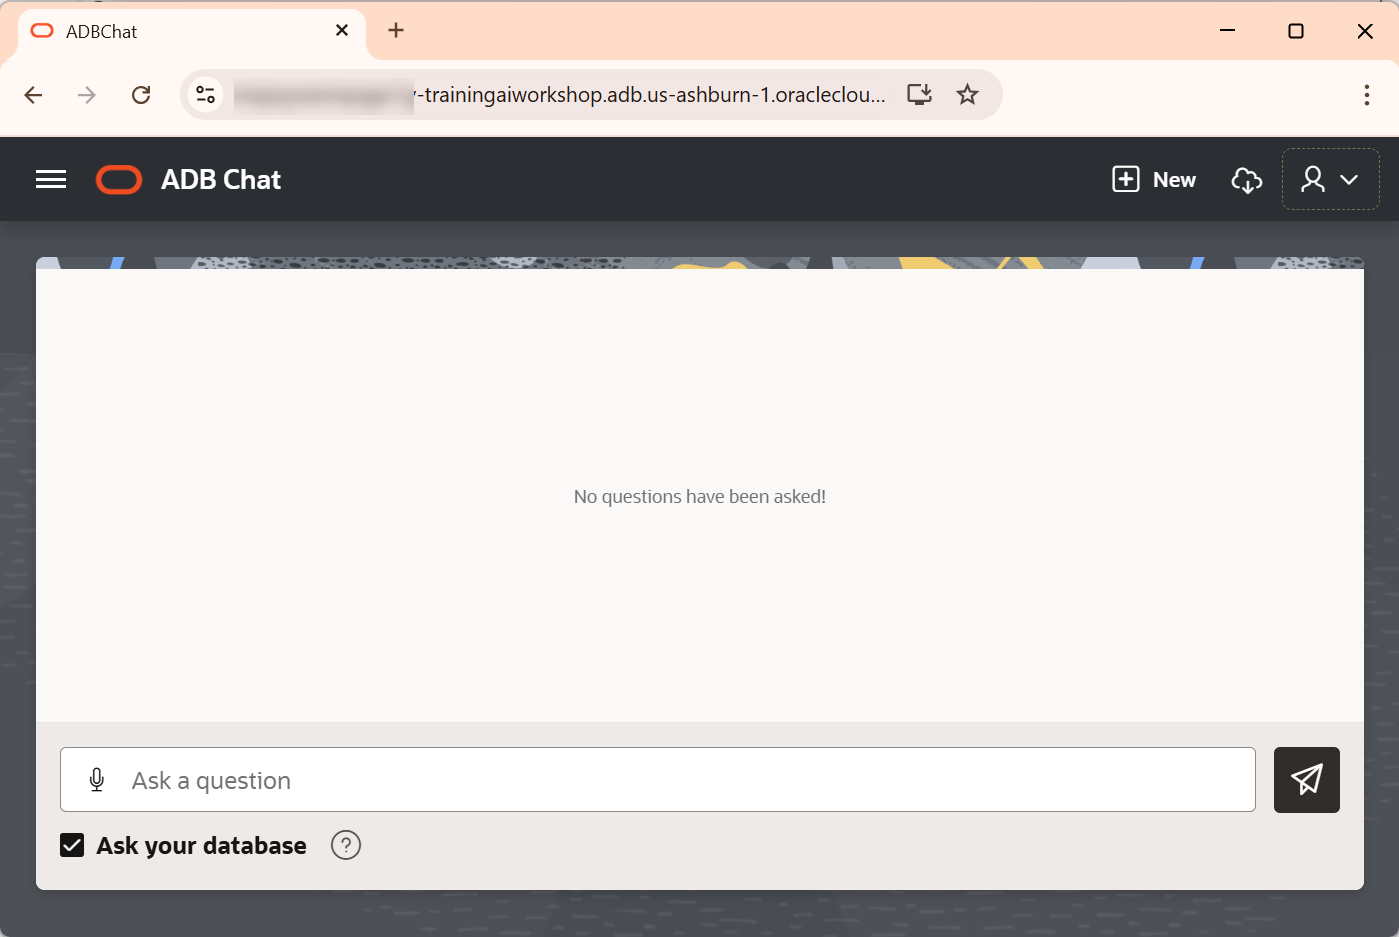
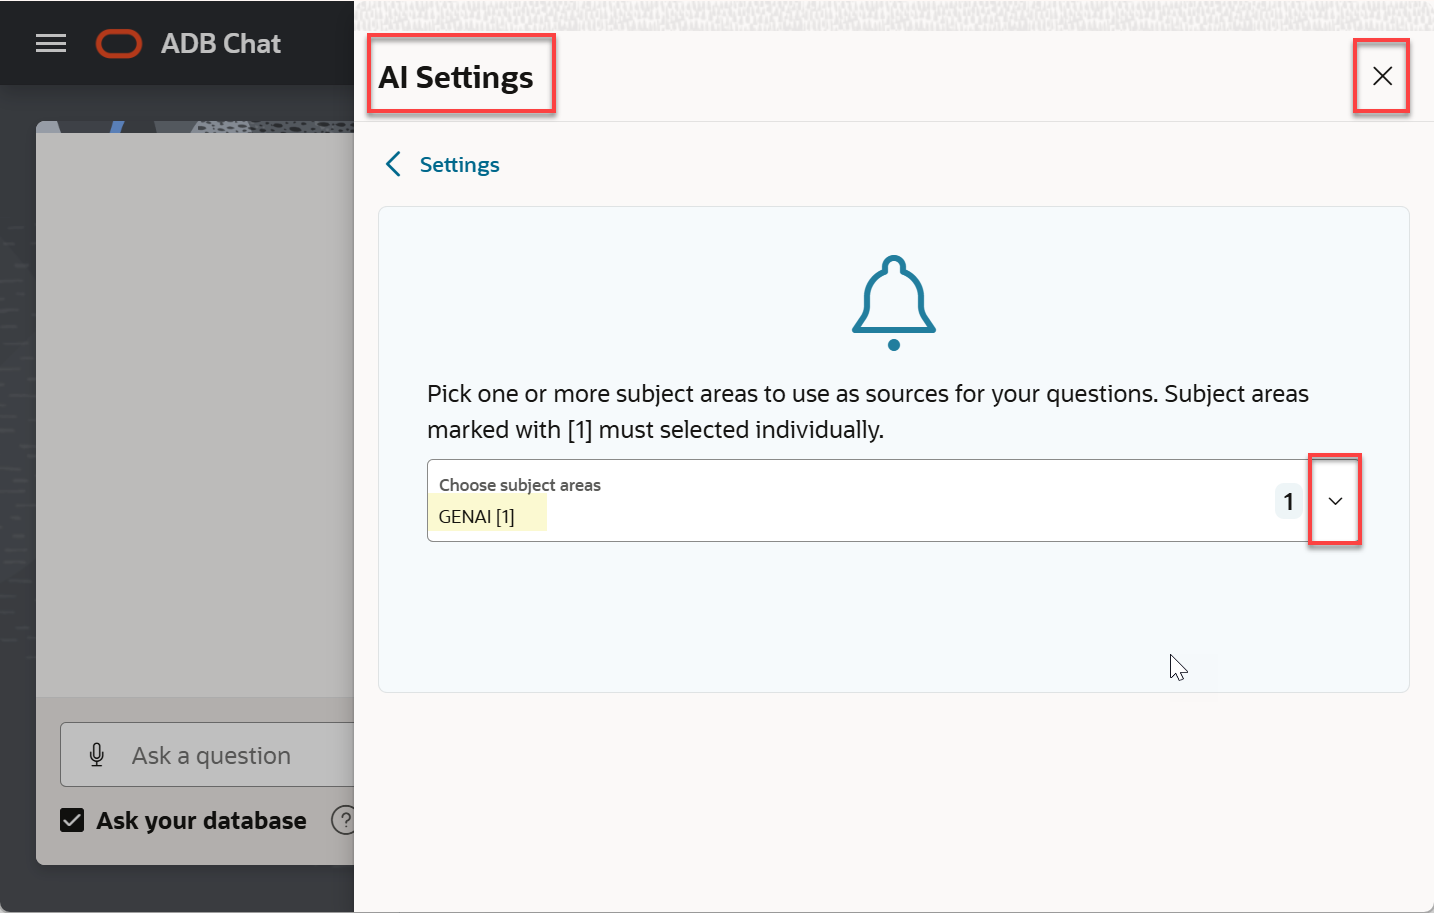
changes in demo lab

diff --git a/shared/adb-speaks-human/use-select-ai-demo/use-select-ai-demo.md b/shared/adb-speaks-human/use-select-ai-demo/use-select-ai-demo.md
@@ -31,25 +31,13 @@ In this lab, you will:
 
     ![Enter ChatDB credentials](./images/ai-select-credentials.png =70%x*)
 
-    The **ADB Chat** application is displayed. 
+2. The **AI Settings** window in the **ADB Chat** application is displayed. Select a profile that you want to use. Click the **Choose subject areas** drop-down list, and select the **`GENAI [1]`** profile. This profile was created in the **Create credential and AI profile** paragraph in the notebook that you imported in **Lab 3**. Next, click the **X** control.
 
     ![Select AI application displayed](./images/select-ai-application.png =70%x*)
-
-2. On the **ADB Chat** page, select a profile that you want to use. In the banner, click the profile (person) drop-down list, and then select **Settings**. 
-
-    ![Click Settings](./images/click-settings.png =70%x*)
- 
- 3. On the **Settings** page, click **AI Settings**. 
- 
-    ![Click ai Settings](./images/click-ai-settings.png =70%x*)
- 
- 4. Click the **Choose subject areas** drop-down list, and select the **`GENAI [1]`** profile. This profile was created in the **Create credential and AI profile** paragraph in the notebook that you imported in **Lab 3**. Next, click the **X** control.
-
-    ![Select AI profile](./images/select-profile.png =70%x*)
 
     The ADB Chat application is re-displayed. You are now ready to ask questions at the **Ask a question** prompt!
 
-    ![Select AI application displayed](./images/select-ai-application.png =70%x*)
+    ![Select AI application displayed](./images/select-ai-demo.png =70%x*)
 
 ## Task 2: Ask Natural Language and Database Questions Using the Application
 
